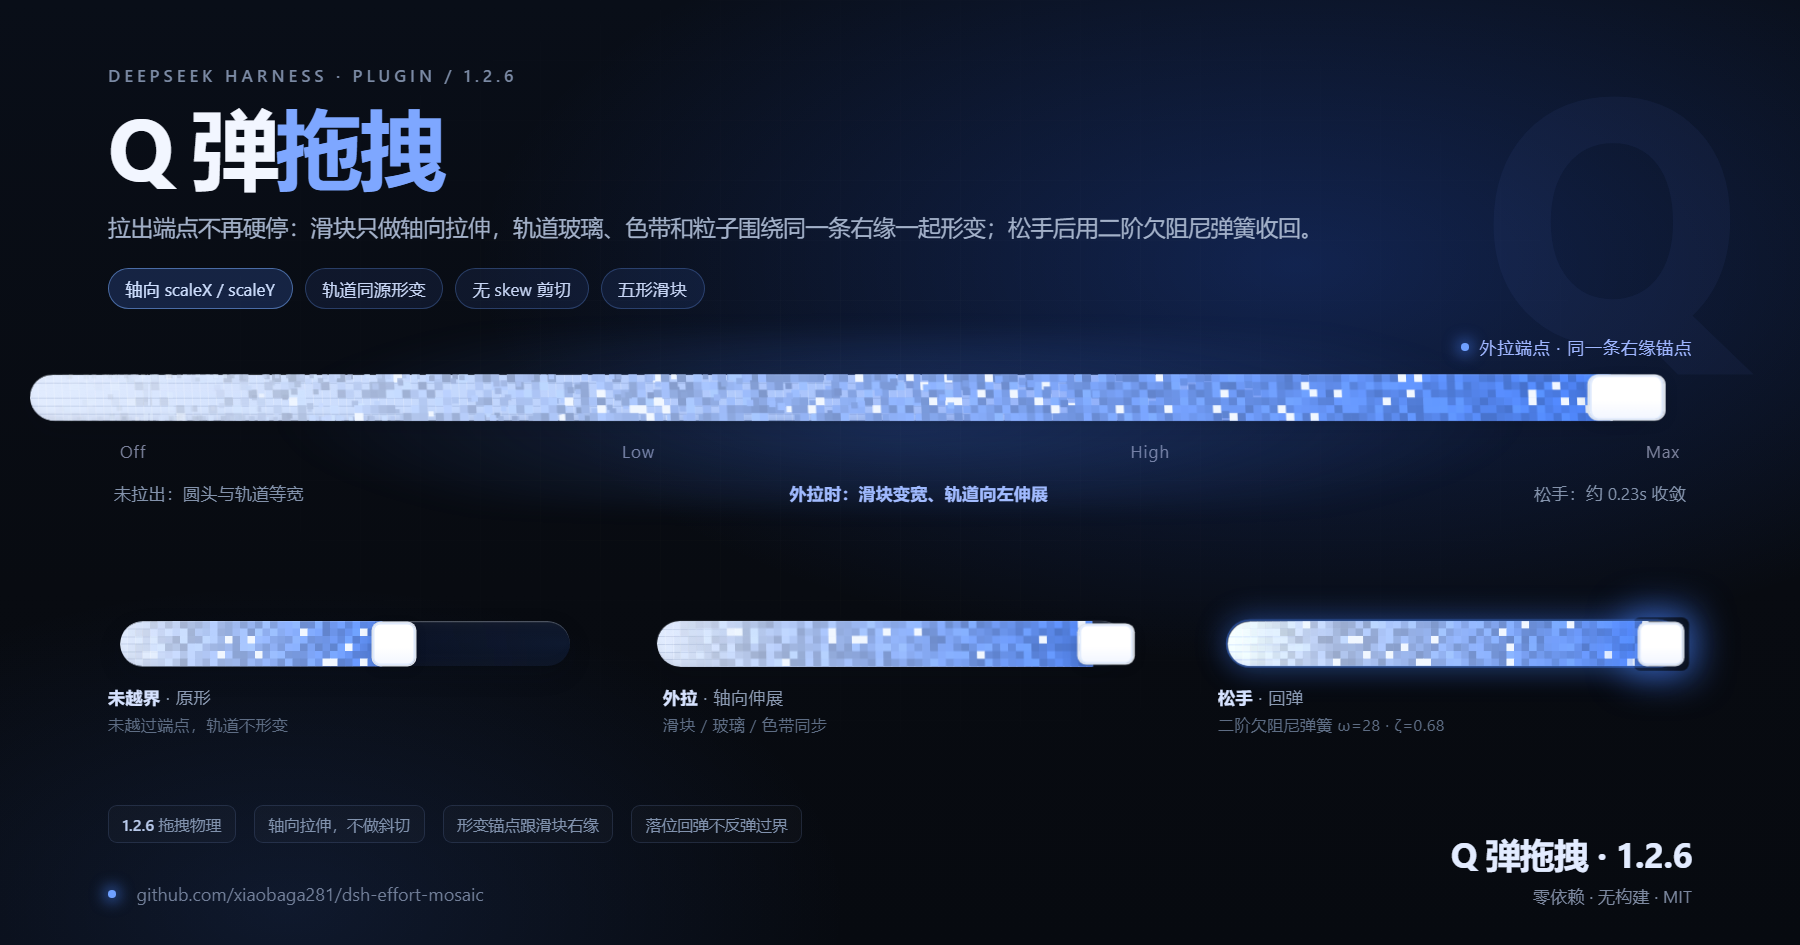
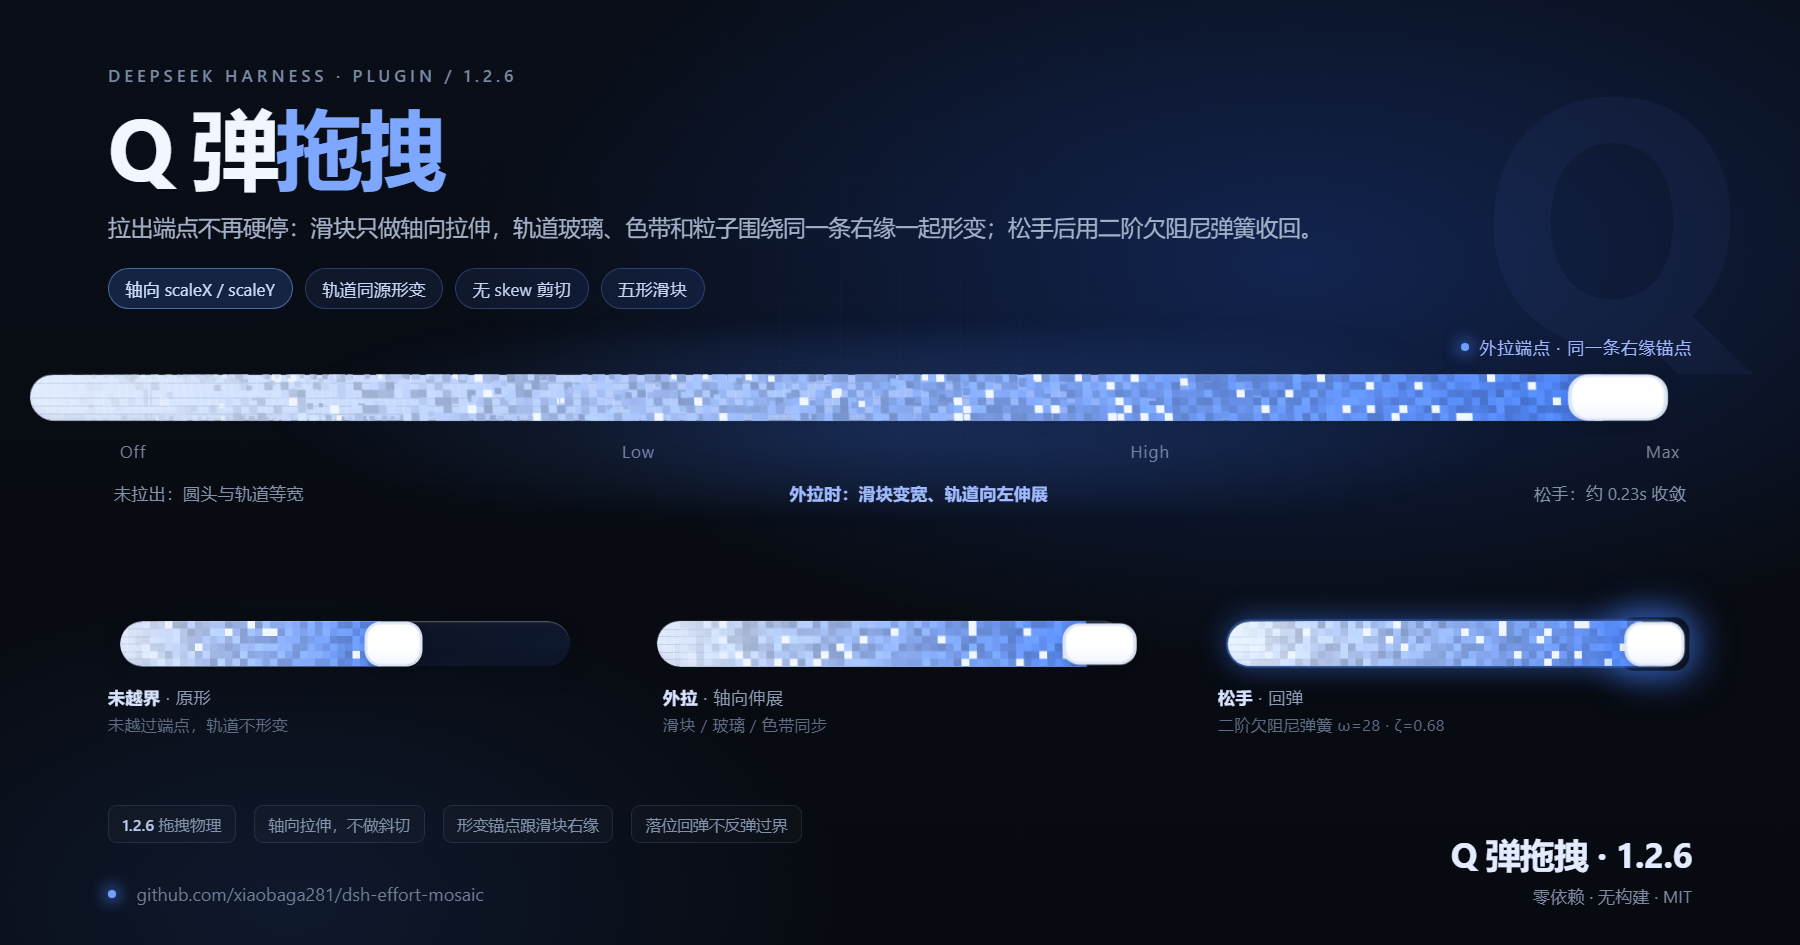
fix: make default knob a 1.3x rounded rectangle

diff --git a/lib/client.js b/lib/client.js
@@ -420,11 +420,12 @@ window.__ModuleLoader__.load({
 
     /**
      * 滑块宽度 = 高度 × 该形状的宽高比。
-     * 默认是圆角方形、正圆 / 方都是 1；胶囊横向拉长；细棒收窄。
+     * 默认是横向圆角矩形（1.3 倍宽）；正圆 / 方都是 1；胶囊横向拉长；细棒收窄。
      * 几何公式一律按**宽度**算，所以这些形状下 `(100% - 宽度)` 才是真正可滑动的行程。
      */
     function knobWidthOf(snap) {
       var size = snap.knobSize;
+      if (snap.knobShape === "circle") return size * 1.3;
       if (snap.knobShape === "pill") return size * 1.6;
       if (snap.knobShape === "blade") return size * 0.42;
       return size;
@@ -432,13 +433,13 @@ window.__ModuleLoader__.load({
 
     /**
      * 非整圆形状的本地圆角，单位 px；正圆 / 胶囊 / 细棒返回 null，取整圆半径。
-     * 默认「圆角方形」保留 0.18 直径圆角；「方」收到 0.06，
-     * 让两个方形档一眼能分开，不再只是同一个圆角换名字。
+     * 默认「圆角矩形」宽 1.3 倍、高 1 倍，半径取 0.34 直径，圆角要够大；
+     * 「方」收到 0.06，只剩一点圆角，和默认不再像同一个形状。
      */
     function knobCornerOf(snap) {
-      /* 默认是方形圆角矩形，不是圆形：半径 0.18 直径，四边平直段仍然明显。
+      /* 默认是横向圆角矩形，不是圆形：半径 0.34 直径，四边仍保留平直段。
          「方」再收到 0.06，几乎只在角上留一点圆；「圆形」由独立的 50% CSS 规则锁死。 */
-      if (snap.knobShape === "circle") return Math.round(snap.knobSize * 0.18);
+      if (snap.knobShape === "circle") return Math.round(snap.knobSize * 0.34);
       if (snap.knobShape === "rounded") return Math.round(snap.knobSize * 0.06);
       return null;
     }
@@ -452,7 +453,7 @@ window.__ModuleLoader__.load({
       return 1;
     }
 
-    /** 圆角：默认圆角方形 / 方 取各自的本地圆角；正圆 / 胶囊 / 细棒吃满高度。 */
+    /** 圆角：默认圆角矩形 / 方 取各自的本地圆角；正圆 / 胶囊 / 细棒吃满高度。 */
     function knobRadiusOf(snap) {
       var corner = knobCornerOf(snap);
       return corner === null ? "999px" : corner + "px";
@@ -945,9 +946,9 @@ window.__ModuleLoader__.load({
            吸附本身由 rAF 逐帧驱动，见 `beginSettle`；那段会临时把这条关掉。 */
         + "transition:left .3s cubic-bezier(.22,1,.36,1),box-shadow .3s ease}",
       /* 正圆档必须无条件锁成 50%：即便某条计算链把半径变量写成别的值，
-         也不能再退回“圆角方形”。拖动形变由 `deformTo` 的 lockCircle 锁住。 */
+         也不能再退回“圆角矩形”。拖动形变由 `deformTo` 的 lockCircle 锁住。 */
       ".dem-track[data-knob-shape='disc'] .dem-knob,"
-        + ".dem-knob[data-knob-shape='disc']{border-radius:50%}",
+        + ".dem-knob[data-knob-shape='disc']{border-radius:50%!important}",
       /* 拖动时旋钮与填充都关掉缓动，否则手感会黏。 */
       /* 首次量宽的那一帧：width 还是 0，旋钮/填充先落在最左端；紧随其后的测量修正
          不能被当成换档过渡播出来。等这一帧画完（data-measured 翻 1）才恢复缓动。 */
@@ -2373,7 +2374,7 @@ window.__ModuleLoader__.load({
         var left = cx - layoutW / 2;
         var right = left + layoutW;
         /* 圆角矩形的收口半径要跟着**滑块自己的圆角**走，不能一律取 min(w,h)/2：
-           正圆/胶囊按高度取半圆，默认圆角方形和「方」取各自的本地圆角。 */
+           正圆/胶囊按高度取半圆，默认圆角矩形和「方」取各自的本地圆角。 */
         var corner = knobCornerOf(settings);
         var shapeR = corner === null ? Math.min(layoutW, layoutH) / 2 : corner;
         /* 细棒这类**比带高还窄**的滑块：竖切要退到滑块左缘，

diff --git a/README.md b/README.md
@@ -88,7 +88,7 @@ dsh plugin --profile web add "github:xiaobaga281/dsh-effort-mosaic"
 | 玻璃材质 | 开 / 关 | 开（液态玻璃：背景折射 + 上缘镜面 + 底缘厚度） |
 | 滑轨强调色 | 6 个预设 + 任意 hex | `#4A84FF` |
 | 最高档字符 | 跟随强调色 / 自定义 | 跟随强调色 |
-| 滑块形状 | 默认（圆角方形） / 圆形 / 方 / 胶囊 / 细棒 | 默认 |
+| 滑块形状 | 默认（圆角矩形） / 圆形 / 方 / 胶囊 / 细棒 | 默认 |
 | 滑块大小 | 30 / 34 px | 30 |
 | 滑块填充 | 白瓷 / 染色 / 强调色 / 磨砂 | 白瓷 |
 | 点亮样式 | 能量波 / 扫描线 / 爆散 / 呼吸 | 能量波 |
@@ -159,7 +159,7 @@ README.md / LICENSE  说明与许可
 
 完整记录见 [CHANGELOG.md](./CHANGELOG.md)。
 
-- **1.2.6** — 修复滑块拖拽时被斜切成“左低右高”、圆头在非等比缩放下变椭圆、横向滑到端点时误触发纵向拉伸，以及松手回弹偏慢；同时清掉旧包名配置双注册、`TRACK_INSET`、旧 `codexDustNodes` 包装、`tintQueued` 死变量和宿主侧启动审计，测试接缝只保留宣传图生成器实际使用的函数；菜单桥改为全局单例，不可见轨道暂停 rAF，滑块几何与 DOM 样式写入加缓存；滑块形状整理为「默认（圆角方形）/ 圆形 / 方 / 胶囊 / 细棒」，移除空心环，新增锁定正圆轮廓的「圆形」，并修复细棒与色轨之间的暗缝。
+- **1.2.6** — 修复滑块拖拽时被斜切成“左低右高”、圆头在非等比缩放下变椭圆、横向滑到端点时误触发纵向拉伸，以及松手回弹偏慢；同时清掉旧包名配置双注册、`TRACK_INSET`、旧 `codexDustNodes` 包装、`tintQueued` 死变量和宿主侧启动审计，测试接缝只保留宣传图生成器实际使用的函数；菜单桥改为全局单例，不可见轨道暂停 rAF，滑块几何与 DOM 样式写入加缓存；滑块形状整理为「默认（圆角矩形）/ 圆形 / 方 / 胶囊 / 细棒」，移除空心环，新增锁定正圆轮廓的「圆形」，并修复细棒与色轨之间的暗缝。
 - **1.2.5** — 修复每次打开推理等级浮层滑轨慢一帧，以及最高档光带不跟随轨道形变；恢复市场宣传图与 README 预览资产。
 - **1.2.4** — 修复最高档轨道 / 滑块光晕退场太直接：光晕改为 2.2s 扩散衰减，上缘发丝光保留；修复首次打开浮窗粒子越界晚一拍，以及开启粒子扩散后重开面板延迟：建墙回到 `useLayout` 并用 `DocumentFragment` 一次插入，冷启动直接满散，裁切高度按实际散开幅度动态计算。
 - **1.2.3** — 修复最高档粒子速度前快后慢：`burstPower` 不再把速度从 2.6× 衰减回 1×，最高档改用稳定的顶部提速，只在入口叠加 0.06× 轻抬；修复详情页自定义设置在窄窗口下强调色 swatches / hex、分段控件、滑杆、预览标签与底栏横向溢出，面板在 160–360px 宽度内均无横向溢出。

diff --git a/CHANGELOG.md b/CHANGELOG.md
@@ -10,7 +10,7 @@
 - **滑块拉伸后圆头变椭圆**：直接在非等比缩放下使用固定 `border-radius`，圆头半径也会被 `scaleY/scaleX` 拉伸，圆形/胶囊会变成尖椭圆。现在根据形变后的短边反算视觉圆心半径，再把半径除以各自的 scale 换回本地坐标；圆头拉伸后仍是圆头，圆角方仍保留 10px 圆角。
 - **横向拖动时误触发纵向拉伸**：纵向意图阈值原来写成 `2px / 0.8 倍横向位移`，和注释里的“8px 且明显大于横向位移”不一致。横向滑到端点时手指稍微下沉，就会被当成纵向拖动，滑块突然变成长胶囊。现在改为 `8px / 1.5 倍横向位移`。
 - **松手回弹又慢又不跟手**：形变回收原来和拖动共用逐帧 lerp，松手时把系数从 `0.34` 直接降到 `0.18`，没有时间基准也没有惯性，尾巴能拖到 0.6s。现在拖动跟手改成按 `dt` 的指数追随，松手改为 `ω=28 / ζ=0.68` 的二阶欠阻尼弹簧，从最大张力开始加速回收，约 0.23s 收敛，只保留很轻的一次回弹。
-- **滑块形状收敛为五档**：原「圆」实际是圆角方形，改名为「默认」并保持默认选择，半径收到 `0.18` 直径，四边大段平直、和正圆一眼分得开；移除空心环 `ring`，新增真正 `50%` 正圆 `disc`，并在拖拽时锁定圆形轮廓，不再被轴向拉成长胶囊；「方」的圆角收到 `0.06` 直径，只留一点圆角。
+- **滑块形状收敛为五档**：原「圆」实际是圆角方形，改名为「默认」并保持默认选择，改成横向圆角矩形（宽高比 `1.3`，圆角 `0.34` 直径，圆角要够大），和圆形、方一眼分得开；移除空心环 `ring`，新增真正 `50%` 正圆 `disc`，并在拖拽时锁定圆形轮廓，不再被轴向拉成长胶囊；「方」的圆角收到 `0.06` 直径，只留一点圆角。
 - **细棒与色轨之间有一条暗缝**：细棒收口原先退到左缘再额外让出 `TAIL_CUT_GUARD`，填充和滑块之间留出约 8px 的深色缺口。现在细棒单独按左缘 +1px 收口，初始帧、rAF 帧和霓虹填充的 `tail-inset` 三条路径同步修正。
 
 ### 清理
